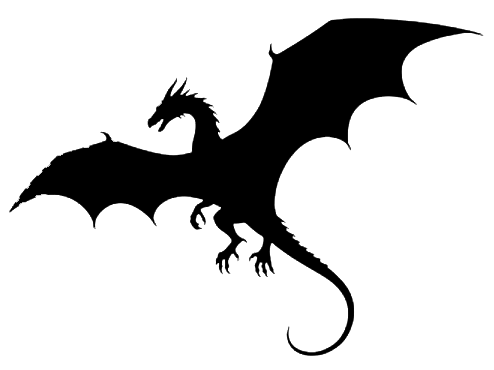
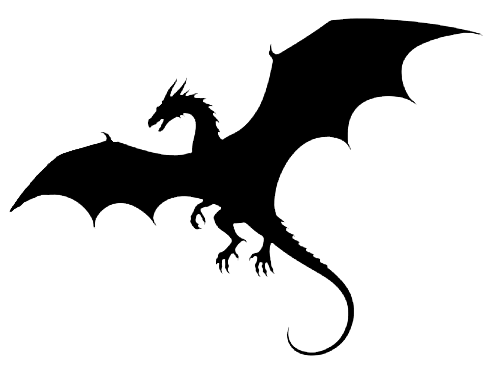
accessibility

diff --git a/style.css b/style.css
@@ -1,10 +1,10 @@
 @import url('https://fonts.googleapis.com/css2?family=MedievalSharp&display=swap');
 
 :root {
-  --easy: #4ade80;
-  --medium: #facc15;
-  --hard: #f87171;
-  --aoe: #38bdf8; /* Critical / AoE color */
+  --easy: #398d58;
+  --medium: #c25959;
+  --hard: #9b0101;
+  --aoe: #267496; /* Critical / AoE color */
   --hp-bg: #4b1307;
   --hp-fill: #f97316;
   --hp-fill-defeated: #22c55e;
